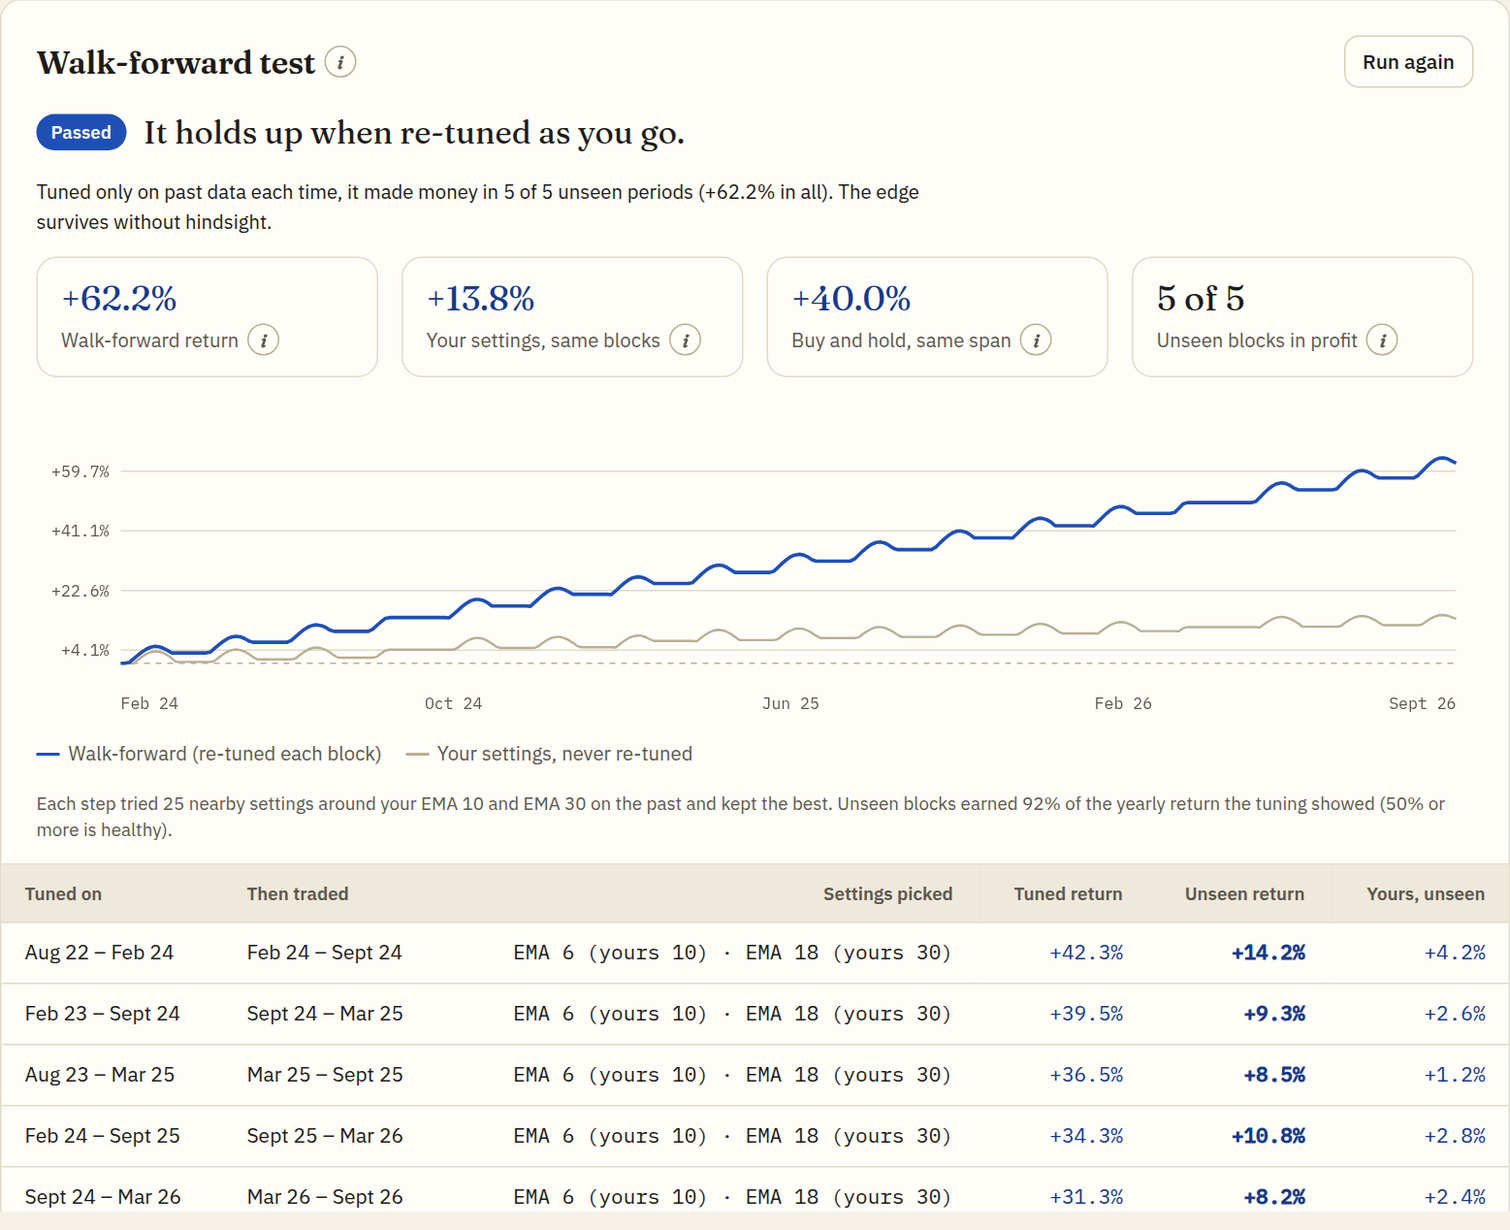
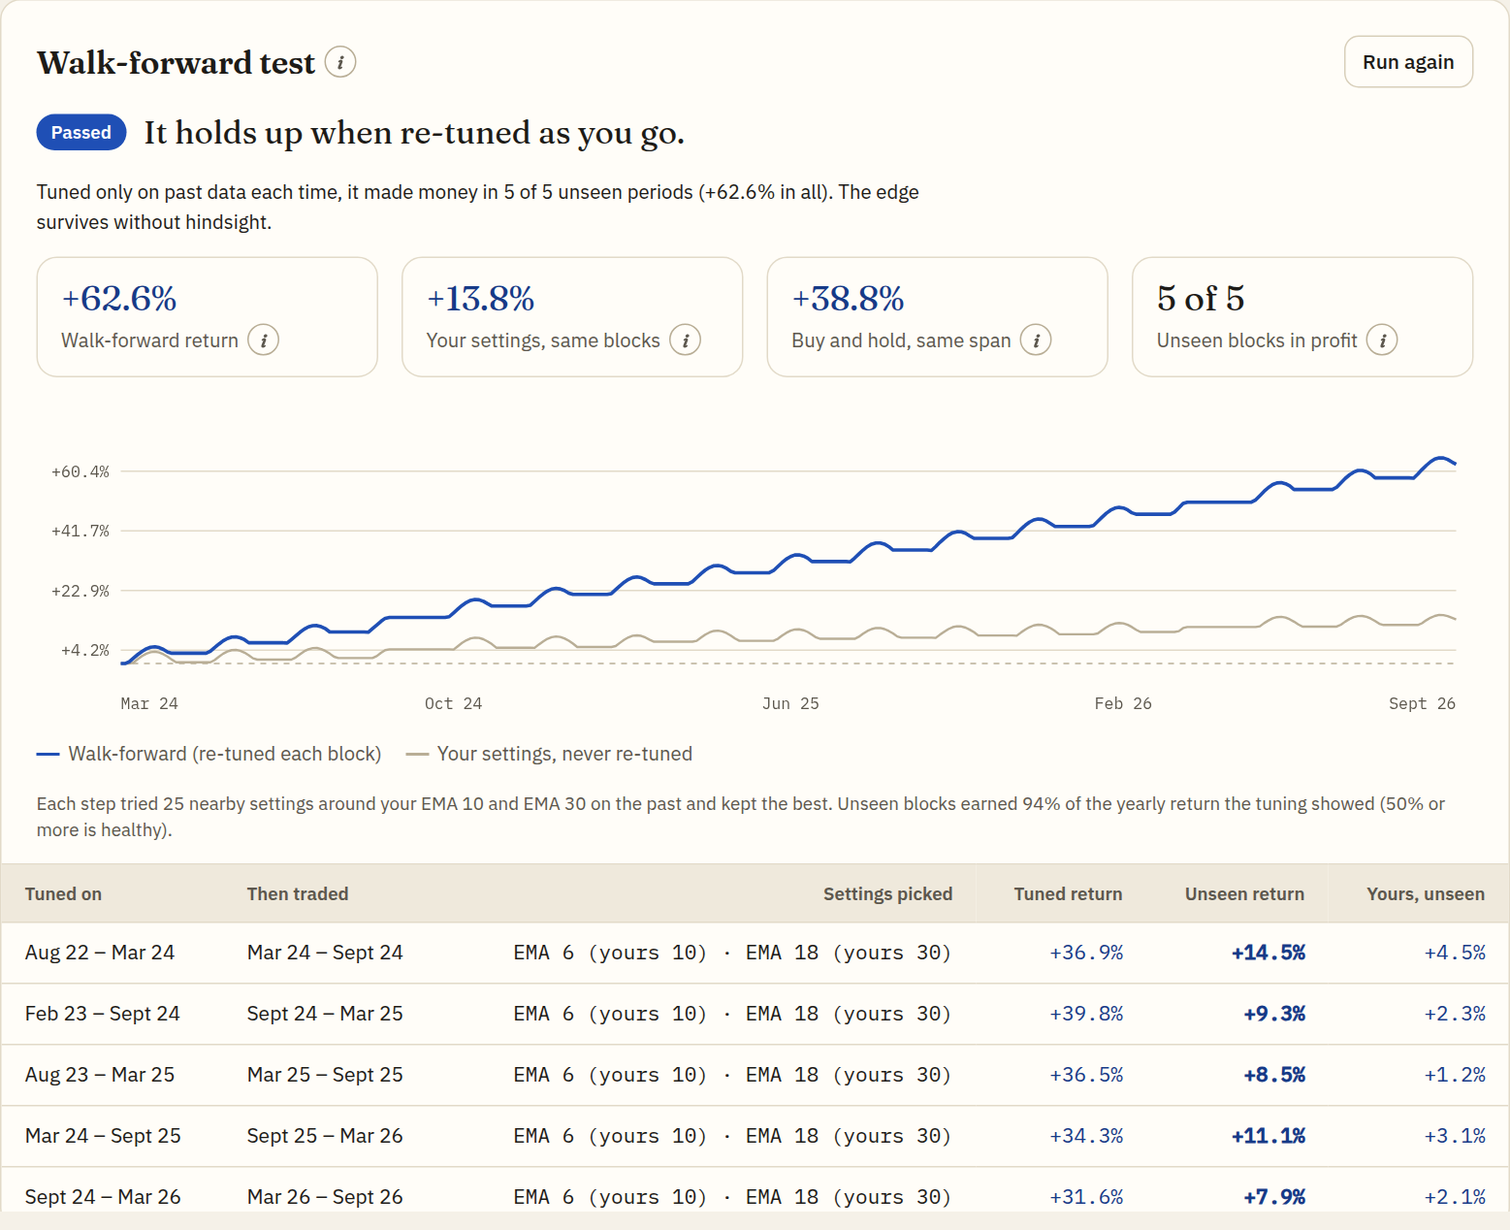
Docs, landing page and tour cover options, groups and importing
Landing: new "Beyond one chart" section, updated toolkit and FAQ.
README: Import-any-strategy, group and options paper trading, new
Options and Import screenshots, all screenshots re-shot. Setup guide:
running beside other bots on one Zerodha account, recent errors,
import routing, group/options sessions. Tour: a step for these.

Claude-Session: https://claude.ai/code/session_01QCGeNSveSSmNFs12Q4F29N

diff --git a/stratlab/frontend/src/pages/Login.tsx b/stratlab/frontend/src/pages/Login.tsx
@@ -49,8 +49,14 @@ const TOOLS: [string, string][] = [
   ["Built for intraday", "Entry windows, square-off time, trades per day, cooldowns and a daily loss cap, with intraday (MIS) costs."],
   ["20+ indicators", "Moving averages, RSI, MACD, Bollinger Bands, VWAP, Supertrend, ADX, Stochastic, ATR, Donchian breakouts and volume."],
   ["Compare experiments", "Every run is saved and numbered. Put two side by side to see exactly what changed and whether it helped."],
-  ["Paper trading", "When a verdict holds up, run it live on real prices with fake money, and get alerts when it trades."],
+  ["Paper trading", "When a verdict holds up, run it live on real prices with fake money: one stock, a whole group, or an option structure. It keeps running until you stop it."],
   ["Walk-forward test", "Re-tune the settings on the past, trade them on the next stretch the tuning never saw, slide forward, repeat. The strictest test there is."],
+];
+
+const BEYOND: [string, string, string][] = [
+  ["Options, live", "Straddles, strangles, iron flies, condors, spreads or any structure up to eight legs, paper traded on live NSE, BSE and MCX option prices. Every fill is the real bid or ask. Timed entries, stops on the whole position or each leg, re-centring, and sizing by the broker's real margin.", "Backtesting options: coming soon"],
+  ["Whole groups", "Run one set of rules across NIFTY 50, the liquid F&O stocks, US mega caps, large coins or your own list, with one pot of capital and a limit on positions open at once. See which members carried it, then paper trade the whole group live.", "Built for scanners and momentum books"],
+  ["Bring any strategy", "Drop in a config file, Pine Script, Python, MetaTrader, AmiBroker or plain words. StratLab works out what it is and sets it up in the right place: a notebook, a group, or the Options tab.", "Anything it can't carry over is listed"],
 ];
 
 const MARKETS: [string, string, string][] = [
@@ -64,7 +70,8 @@ const FAQ: [string, string][] = [
   ["Do I need to know how to code?", "No. You describe the idea in plain words. If something is missing, like when to sell, StratLab asks. You can also tap any rule to change it."],
   ["Where do the prices come from?", "Indian prices from Zerodha Kite, crypto from Coinbase, and US, UK, European, Japanese and forex prices from Yahoo Finance. Company research uses Finnhub, Screener.in, news and Wikipedia."],
   ["Why not just look at the backtest return?", "Because almost any idea can be tuned to look great on past prices. The honesty checks ask whether it would have worked on data it never saw, with slightly different settings, and with worse luck. That's the difference between an edge and a coincidence."],
-  ["Can I bring a strategy I already have?", "Yes. Import a StratLab export, a TradingView Pine Script, Python code (Backtrader, backtesting.py and similar), MetaTrader, AmiBroker, or just describe it. StratLab translates it into rules you can read, and lists anything it couldn't translate."],
+  ["Can I bring a strategy I already have?", "Yes. Import a StratLab export, a config file from your own bot, TradingView Pine Script, Python code (Backtrader, backtesting.py and similar), MetaTrader, AmiBroker, or just describe it. StratLab translates it into rules you can read, sets up a group if it trades a list of stocks, opens option structures in the Options tab, and lists anything it couldn't translate."],
+  ["Can I test options strategies?", "You can paper trade them live today on NSE, BSE and MCX option prices, with fills at the real bid and ask. Backtesting options is coming soon: it needs real historical prices for every strike, and we won't stand in a pricing model."],
   ["What does it cost?", "It's free to start, and every indicator and market is unlocked while StratLab is in early access."],
 ];
 
@@ -91,7 +98,7 @@ export function Login() {
       <header className="lp-nav">
         <a href="#top" className="brand" aria-label="StratLab home"><Logo size={46} /></a>
         <nav aria-label="Sections">
-          <a href="#how">How it works</a><a href="#checks">Honesty checks</a><a href="#research">Research</a><a href="#markets">Markets</a><a href="#faq">FAQ</a>
+          <a href="#how">How it works</a><a href="#checks">Honesty checks</a><a href="#beyond">Options &amp; groups</a><a href="#research">Research</a><a href="#markets">Markets</a><a href="#faq">FAQ</a>
         </nav>
         <button className="btn outline sm" onClick={signIn}>Sign in</button>
       </header>
@@ -182,7 +189,22 @@ export function Login() {
         </div>
       </section>
 
-      <section id="research" className="lp-sec lp-alt">
+      <section id="beyond" className="lp-sec lp-alt">
+        <div className="lp-wrap stack" style={{ gap: 32 }}>
+          <div className="lp-head">
+            <span className="eyebrow">Beyond one chart</span>
+            <h2 className="serif lp-h2">Options, whole groups, and the strategies you already run.</h2>
+            <p className="lp-p">Real trading isn't one stock and one rule. StratLab handles the rest too.</p>
+          </div>
+          <div className="lp-beyond">
+            {BEYOND.map(([t, b, tag]) => (
+              <div key={t} className="card lp-beyond-card"><b>{t}</b><p className="small muted">{b}</p><span className="lp-fix">{tag}</span></div>
+            ))}
+          </div>
+        </div>
+      </section>
+
+      <section id="research" className="lp-sec">
         <div className="lp-wrap lp-split">
           <div className="stack" style={{ gap: 14 }}>
             <span className="eyebrow">Research</span>
@@ -198,7 +220,7 @@ export function Login() {
         </div>
       </section>
 
-      <section className="lp-sec">
+      <section className="lp-sec lp-alt">
         <div className="lp-wrap stack" style={{ gap: 32 }}>
           <div className="lp-head"><span className="eyebrow">The toolkit</span><h2 className="serif lp-h2">Everything a serious test needs.</h2></div>
           <div className="lp-tools">
@@ -207,7 +229,7 @@ export function Login() {
         </div>
       </section>
 
-      <section id="markets" className="lp-sec lp-alt">
+      <section id="markets" className="lp-sec">
         <div className="lp-wrap stack" style={{ gap: 32 }}>
           <div className="lp-head">
             <span className="eyebrow">Markets</span>
@@ -222,7 +244,7 @@ export function Login() {
         </div>
       </section>
 
-      <section id="faq" className="lp-sec">
+      <section id="faq" className="lp-sec lp-alt">
         <div className="lp-wrap lp-split">
           <div className="stack" style={{ gap: 14 }}>
             <span className="eyebrow">Questions</span>

diff --git a/stratlab/frontend/src/components/Tour.tsx b/stratlab/frontend/src/components/Tour.tsx
@@ -1,5 +1,5 @@
 import { useState, type ReactNode } from "react";
-import { Compass, Globe, Lens, Pencil, Pulse, Share, Sparkle, User } from "./Icons";
+import { Compass, Globe, Layers, Lens, Pencil, Pulse, Share, Sparkle, User } from "./Icons";
 import { Modal } from "./ui";
 import { LogoMark } from "./Logo";
 
@@ -29,6 +29,9 @@ const STEPS: Step[] = [
   { icon: <Pulse size={34} />, title: "Paper trade what survives",
     body: "When an idea earns a real verdict, run it live on paper: real prices, fake money, same rules. You get alerts when it would trade.",
     where: "\"Paper trade\" at the top of a notebook or verdict page. Running sessions are under Paper trading in the sidebar." },
+  { icon: <Layers size={34} />, title: "Groups, options and your own strategies",
+    body: "Test one set of rules on a whole group of stocks with shared capital, paper trade option structures on live NSE, BSE and MCX prices, or import a strategy you already run and let StratLab set it up.",
+    where: "\"Testing on\" on a notebook for groups; Options and Import a strategy in the sidebar." },
   { icon: <Share size={34} />, title: "Share, export and keep notes",
     body: "Save a verdict as an image to post anywhere, export the rules as a file, and jot lab notes so you remember why you changed something.",
     where: "\"Share verdict\" on a result, \"More → Export\" and Lab notes in a notebook." },

diff --git a/stratlab/frontend/src/styles.css b/stratlab/frontend/src/styles.css
@@ -593,3 +593,8 @@ table.legs input[type=number] { width: 72px !important; }
   padding: 9px 10px; border-radius: 8px; cursor: pointer; text-align: left; }
 .more-pop button:hover, .more-pop button:focus-visible { background: var(--chip); outline: none; }
 .more-pop button.danger { color: var(--orange-ink); }
+.lp-beyond { display: grid; grid-template-columns: repeat(3, minmax(0, 1fr)); gap: 16px; }
+.lp-beyond-card { display: flex; flex-direction: column; gap: 10px; padding: 24px; }
+.lp-beyond-card b { font-size: 18px; }
+.lp-beyond-card .lp-fix { margin-top: auto; }
+@media (max-width: 860px) { .lp-beyond { grid-template-columns: 1fr; } }

diff --git a/stratlab/README.md b/stratlab/README.md
@@ -49,6 +49,10 @@ Set these and the server logs in to Kite by itself every day at `KITE_AUTO_LOGIN
 - `KITE_TOTP_SECRET`: the secret key shown when you set up an authenticator app for Kite 2FA (the text under the QR code, not a 6-digit code). If you already set up 2FA without saving it, reset external 2FA in Kite to get a new one.
 - `ADMIN_TELEGRAM_CHAT_ID` (optional): your Telegram chat ID, to get a message if the login fails
 
+**Other programs on the same Zerodha account.** If your own trading bots also log in to this Zerodha account:
+- Give StratLab its **own Kite Connect app** (its own API key). A new login to the same app cancels the previous token. If StratLab and a bot share an API key, whichever logs in last knocks the other out. StratLab notices a cancelled token, goes offline with a clear message and sends a Telegram alert, but it deliberately doesn't log in again by itself, so the two don't fight.
+- Keep `KITE_AUTO_LOGIN_AT` a few minutes away from the other logins. Two logins in the same 30-second window use the same 2FA code, and Zerodha refuses the second. StratLab retries once with the next code, then stops for the day.
+
 To test the credentials straight away, send a POST request to `https://YOUR-BACKEND/admin/kite/auto-login?key=YOUR_ADMIN_KEY`. `/admin/status` shows the last result.
 
 > **Read before enabling.** Zerodha's Kite Connect terms expect the daily login to be done by hand, so automating it risks your API key or account being restricted. Your password and TOTP secret also give full trading access to your Zerodha account: keep them only in the host's environment variables and never commit them. If Zerodha rejects the password or code, the server doesn't retry until the next day, so it can't lock your account with repeated attempts. Leave these variables empty to keep logging in by hand.
@@ -126,7 +130,8 @@ Set `ADMIN_EMAILS` to your Google email (several can be comma-separated) and red
 - Kite status and a **Log in to Kite** button (no more typing `?key=` URLs), plus a button to run the automatic login now.
 - A live test of every AI provider, the order each kind of job asks them in, which keys are missing, whether the Finnhub key is set, and whether payments are set up.
 - Users, their plan and this month's usage, with **Change plan** to grant Basic or Pro by hand (for 30 days, 90 days, a year or with no end date).
-- Paper trading sessions running now, each with a Stop button.
+- Paper trading sessions running now (single instruments, groups and options), each with a Stop button.
+- **Recent server errors**: every unexpected error shows users a short code, like "(GET /notebooks, ref 3FA9C1)". This table lists the last 25 with the request, the error and the line of code, and keeps them across restarts.
 
 Everyone else gets a 403 from the `/admin` API and never sees the link. The older `?key=ADMIN_KEY` URLs keep working.
 
@@ -159,13 +164,15 @@ The logo's shapes and colours live in one place, `frontend/src/lib/brand.ts`, wh
   - The verdict: under 15 trades is *not enough evidence*; a loss after costs is *no edge*; a failed unseen-data or nearby-settings check is *probably luck*; passing both (with no failed drawdown check) is *likely a real edge*; anything else is *mixed*.
 - **Walk-forward test** (`engine/walkforward.py`, run from a verdict page): the tradeable period is cut into 8 blocks. In each of 5 steps, up to 25 nearby settings of the first two indicator lengths are tried on 3 blocks of the past, the best is kept, and it trades the next block with fresh capital. The unseen blocks are compounded into one return and compared with the fixed settings and buy and hold. It fails if that return is a loss, passes if 60%+ of blocks are profitable and the unseen yearly return is at least half the tuned one, and warns otherwise (or when there were fewer than 10 unseen trades).
 - **Does it work on similar stocks?** (`basket.py`, run from a verdict page): the same rules and period on about 10 well-known instruments from the same market (four at a time), skipping any the market no longer lists. 60%+ profitable passes; under 40% fails.
-- **Import** (`backend/app/importer.py`, `POST /import/strategy`): the format is detected from the text (and file name). A StratLab export loads exactly, with no AI. Pine Script, Python, MetaTrader, AmiBroker and plain words go to the AI builder, told which language it's reading and to list what it couldn't express; that uses one AI build. If the AI is unavailable, Pine Script is read by a small built-in parser (SMA, EMA and RSI, crossovers and comparisons, entries, exits and percent stops). A script that trades both ways is imported in its main direction, with the opposite entry used as the exit.
+- **Import** (`backend/app/importer.py`, `POST /import/strategy`, the **Import a strategy** page): the format is detected from the text (and file name). Option structures (a straddle, strangle, condor and so on, spotted by `options/importer.is_options`) are translated into an options strategy and open in the Options tab. A strategy that trades a list of instruments comes back with a `universe`: a preset such as the liquid F&O stocks, or its own symbols, plus the most positions open at once. The frontend saves that as the new notebook's group. A StratLab export loads exactly, with no AI. Pine Script, Python, MetaTrader, AmiBroker and plain words go to the AI builder, told which language it's reading and to list what it couldn't express; that uses one AI build. If the AI is unavailable, Pine Script is read by a small built-in parser (SMA, EMA and RSI, crossovers and comparisons, entries, exits and percent stops). A script that trades both ways is imported in its main direction, with the opposite entry used as the exit.
 - **Notebooks** (`/notebooks` routes): stored in the existing `strategies` table, so no database migration is needed. A notebook can be pinned (`PUT` with `pinned`; pinned ones list first) and copied (`POST /notebooks/{id}/duplicate`, which copies the rules, market and notes but not the experiments). Each experiment keeps a compact record (up to 240 chart points, the trades, costs and verdict), capped at 50 per notebook.
 - **Live paper trading** (`backend/app/live.py`):
   - India: one KiteTicker connection feeds every session, and ticks become candles for your timeframe (market hours 09:15–15:30 IST).
   - Every other market (crypto, US, UK, Europe, Japan, forex): each session checks its source (Coinbase, or Yahoo Finance) every 15 seconds for newly closed candles. Yahoo prices can run a few minutes behind.
   - On each closed candle, the same engine decides whether to trade.
-  - Session state is saved every 30 seconds and resumes after a restart.
+  - Groups (`backend/app/group_live.py`, `POST /live/groups`): one engine and candle builder per member, fed by ticks (India) or polled a few members at a time (other markets). There's one pot of capital, a cap on positions open at once, and a group-wide daily loss cap that closes everything. Groups need intraday candles.
+  - Options sessions (`backend/app/options/session.py`) are polled every 5 seconds on live quotes; see Options above.
+  - Session state is saved every 30 seconds and resumes after a restart. A session keeps running until the user or the admin stops it, or the free trial or plan limit ends it. Indian sessions show as paused until the day's Kite login.
   - Free trials and plan limits are re-checked every minute.
 - **API routes:** see `backend/app/main.py`. The browser only ever talks to this API; it never touches the database or Kite directly.
 
@@ -177,4 +184,5 @@ The logo's shapes and colours live in one place, `frontend/src/lib/brand.ts`, wh
 - European costs cover your brokerage only (no local transaction taxes such as France's), and Japanese costs likewise.
 - The tax figure is a rough estimate for Indian equity only, not tax advice.
 - `kiteconnect` (even its latest release, 5.2.2) pins `autobahn==19.11.2`, which has known advisories, so security scanners will keep flagging it until Zerodha updates the package. StratLab only uses it for the outgoing connection to Zerodha's own price feed, not to serve anything. Replacing Kite's ticker client with our own is the way to clear it if needed.
+- Options run as live paper trading only: backtesting them needs historical prices for every strike, which Kite doesn't provide for expired contracts. Group paper trading decides on each closed candle, not on every tick, and has no spread filter.
 - This is a paper trading tool: no real orders are placed. If you add live execution later, review SEBI's retail algo trading framework first.

diff --git a/README.md b/README.md
@@ -47,7 +47,8 @@ Most backtesting tools show a flattering chart. StratLab tells you whether the e
 - **Any market.** Indian stocks, indices and F&O (Zerodha Kite), US, UK, European and Japanese stocks and ETFs and forex (Yahoo Finance), crypto (Coinbase), or upload a CSV of candles from anywhere. No extra keys needed.
 - **Research built in.** Company pages for India and the US: live price and chart, valuation and growth with context, sales and profit history, results against estimates, who owns it, insider trades, news, and an AI read whose trading ideas open as a notebook in one click. Plus AI theme maps, a daily market pulse, side-by-side comparisons and a watchlist.
 - **Plain-English builder.** Describe the idea; the AI turns it into rules and asks only about what you left out. It tries several free AI services in turn (Groq, Cerebras, Gemini, Mistral, SambaNova, OpenRouter), with Claude as an optional paid fallback, and a simple built-in converter if all of them are down.
-- **Paper trading in every market.** Run the rules on live prices with fake money: India, the US, UK, Europe, Japan and forex during their market hours, crypto around the clock.
+- **Import any strategy.** One **Import a strategy** page takes a config file, Pine Script, Python, MetaTrader, AmiBroker, a StratLab export or plain words. It sets up the right thing: a notebook for rules on one instrument, a group notebook for strategies that scan a list (like an F&O momentum scanner), or an Options structure. Anything that can't be carried over is listed.
+- **Paper trading in every market.** Run the rules on live prices with fake money: India, the US, UK, Europe, Japan and forex during their market hours, crypto around the clock. A single instrument, a whole group with shared capital, or an option structure. Sessions keep running until you stop them.
 
 <picture>
   <source media="(prefers-color-scheme: dark)" srcset="docs/images/walkforward-dark.png">
@@ -57,6 +58,16 @@ Most backtesting tools show a flattering chart. StratLab tells you whether the e
 <picture>
   <source media="(prefers-color-scheme: dark)" srcset="docs/images/notebook-dark.png">
   <img alt="A notebook: the question being tested, rules written as editable sentences, and lab notes" src="docs/images/notebook-light.png">
+</picture>
+
+<picture>
+  <source media="(prefers-color-scheme: dark)" srcset="docs/images/options-dark.png">
+  <img alt="The Options tab: a NIFTY iron fly priced on live bid and ask, with entry and square-off times, stop and target, and a button to start paper trading" src="docs/images/options-light.png">
+</picture>
+
+<picture>
+  <source media="(prefers-color-scheme: dark)" srcset="docs/images/import-dark.png">
+  <img alt="Import a strategy: one place for any format, which sets up a notebook, a group or an options structure" src="docs/images/import-light.png">
 </picture>
 
 <picture>
@@ -70,7 +81,7 @@ New here? A short tour pops up the first time you sign in. You can reopen it any
 
 <picture>
   <source media="(prefers-color-scheme: dark)" srcset="docs/images/tour-dark.png">
-  <img alt="The feature tour: step 3 of 9, 'Research a company first', with where to find it" src="docs/images/tour-light.png">
+  <img alt="The feature tour: step 3 of 10, 'Research a company first', with where to find it" src="docs/images/tour-light.png">
 </picture>
 
 | You want to… | Where it is |

diff --git a/CHANGELOG.md b/CHANGELOG.md
@@ -2,6 +2,20 @@
 
 ## September 2026
 
+### Docs, landing page and tour brought up to date
+- **Landing page:**
+  - A new **Beyond one chart** section covers options (live paper trading, with backtesting coming soon), whole-group tests and paper trading, and importing any strategy, and the top menu links to it.
+  - The toolkit and FAQ now cover option structures, groups and imports from your own bots.
+- **README:**
+  - It covers **Import any strategy**, and paper trading groups and option structures.
+  - New screenshots of the Options tab and the Import page, and the rest are re-shot on the current design.
+- **Setup guide:**
+  - How to run StratLab next to your own bots on the same Zerodha account: a separate Kite Connect app, and a different login time.
+  - The Admin page's recent-errors list.
+  - How imports route to groups and options.
+  - Group and options paper trading, and when a paper session stops.
+- **The in-app tour** has a new step for groups, options and importing.
+
 ### Fixed: Admin page error while an options session runs
 - The Admin page's "Paper trading now" list crashed while any options session was running ("Something went wrong on our side (GET /admin/sessions)"). Options sessions now report their market like other sessions, and one broken session can no longer hide the whole list.
 
